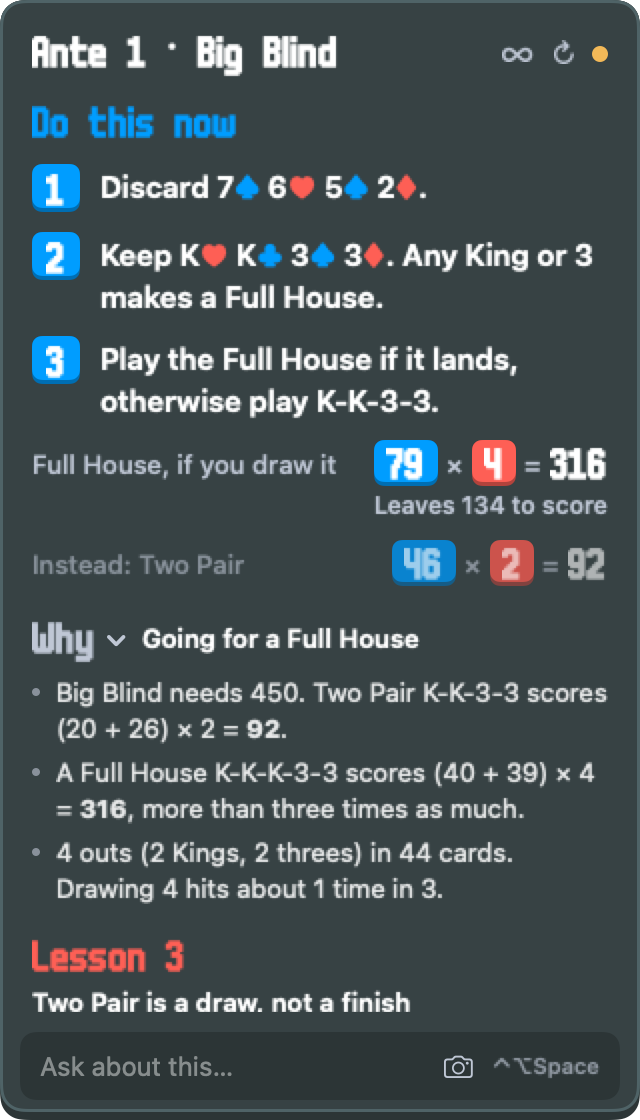
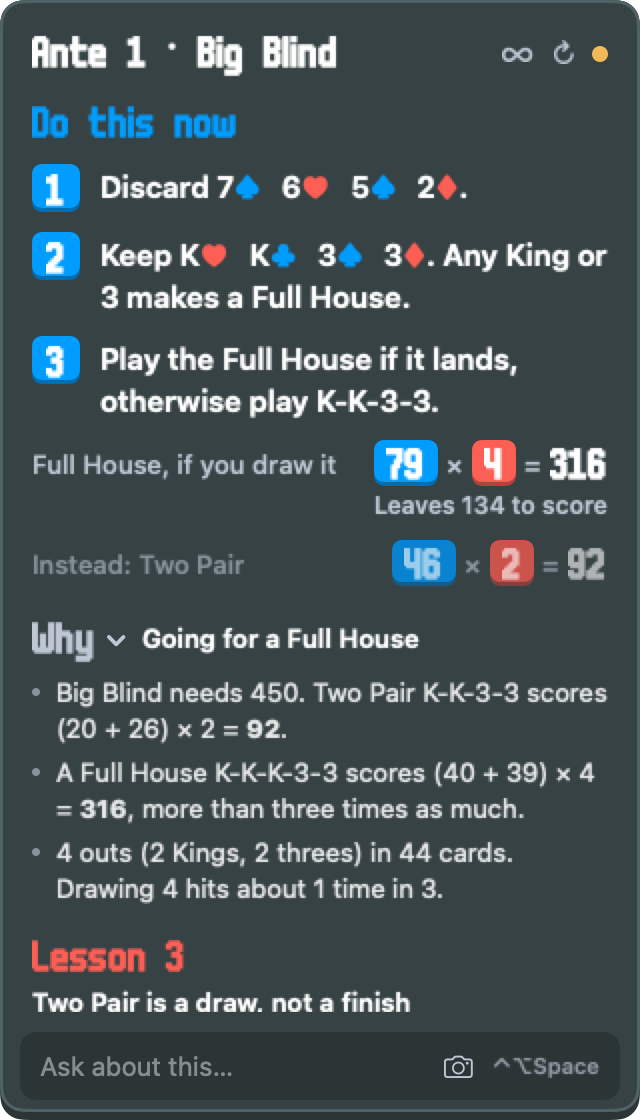
Widen the gap between cards in the steps
A normal space left one card's suit touching the next card's rank, which made
a row of cards hard to read.

Changed region(s): [[0.1562, 0.2188, 0.9375, 0.2812], [0.4062, 0.1562, 0.7188, 0.1875]]

diff --git a/Sources/Balabro/OverlayView.swift b/Sources/Balabro/OverlayView.swift
@@ -490,7 +490,12 @@ private struct SuitText: View {
             ?? AttributedString(markdown)
         for (glyphs, color) in [("♥♦♡♢", Theme.mult), ("♠♣♤♧", Theme.chips)] {
             for run in text.characters.indices where glyphs.contains(text.characters[run]) {
-                text[run..<text.characters.index(after: run)].foregroundColor = color
+                let next = text.characters.index(after: run)
+                text[run..<next].foregroundColor = color
+                // A normal space leaves one card's suit touching the next card's rank.
+                if next < text.characters.endIndex, text.characters[next] == " " {
+                    text[next..<text.characters.index(after: next)].kern = size * 0.45
+                }
             }
         }
         (attributed, self.size, self.weight) = (text, size, weight)
